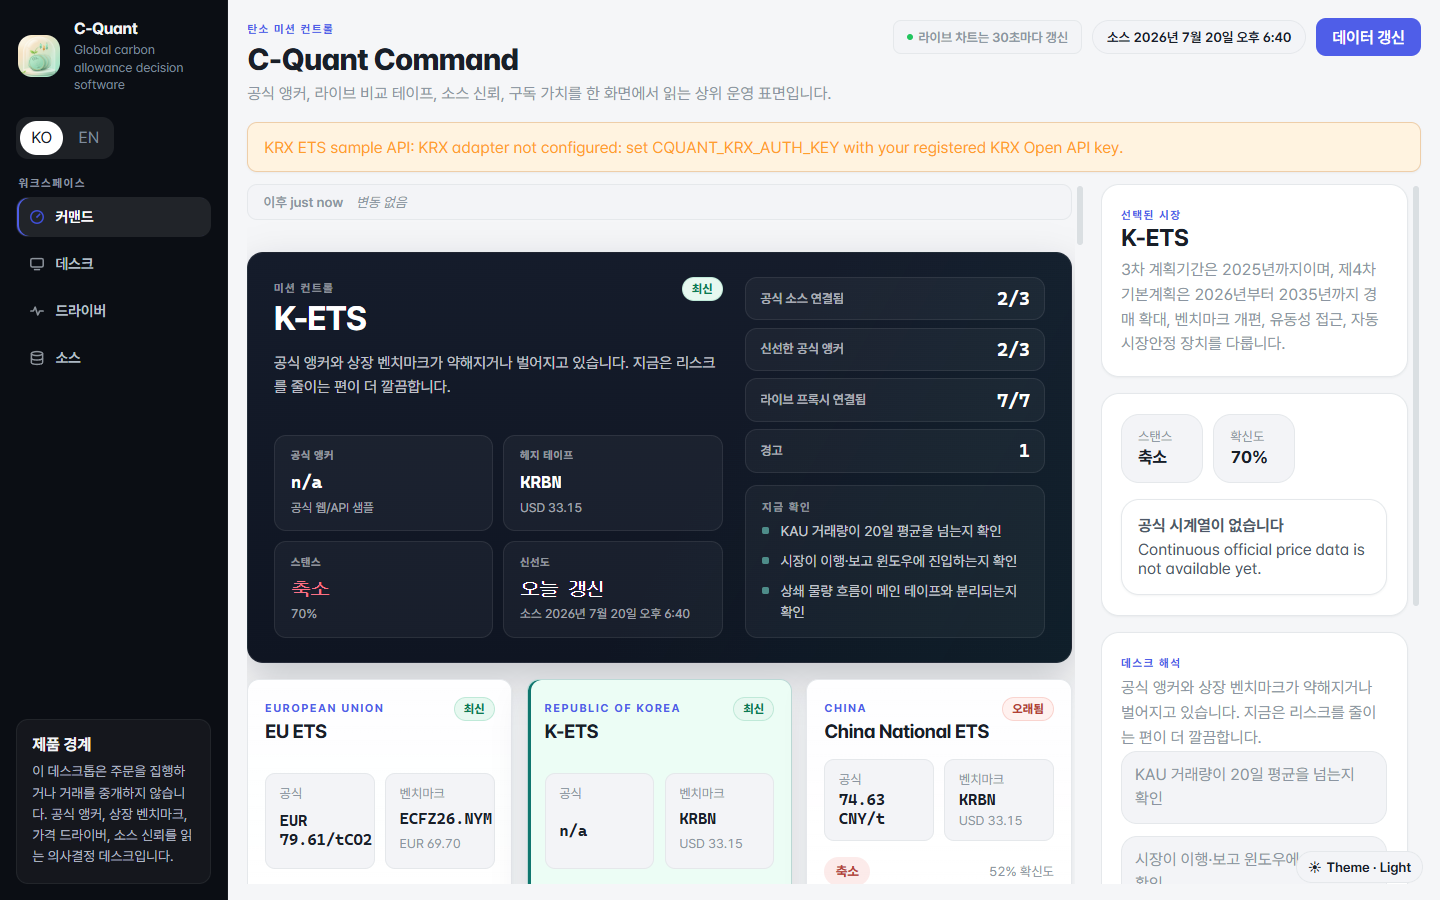
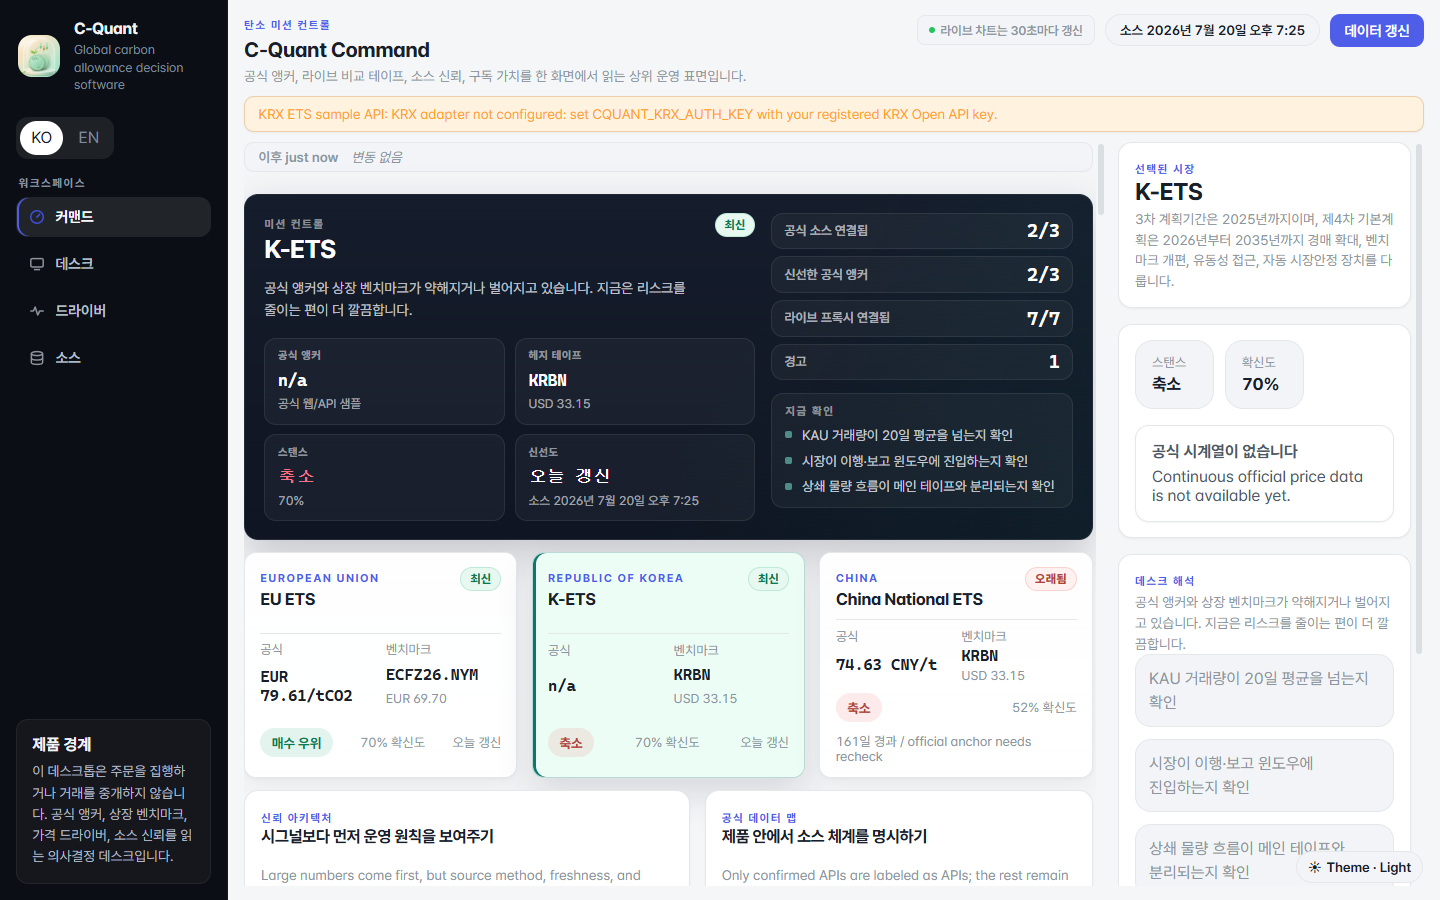
ui: density pass — collapse vertical slack, flatten box-in-box cards
The screens read as sparse AI-template output: oversized page header,
1.2rem padding everywhere, 1rem gaps between everything, and metric
tiles boxed inside cards inside columns. This pass tightens the whole
vertical rhythm:

- Page header toward a toolbar: h1 1.9 -> 1.3rem, subtitle 0.86rem,
  head padding-bottom 1 -> 0.6rem; meta chips and buttons one size
  down.
- Panels 1.2 -> ~1rem padding, radius-xl -> radius-lg; workspace grid
  and scroll gaps 1 -> 0.75rem; section headers 1.18 -> 1.02rem with
  0.7rem margin.
- Hero: padding 1.5 -> 1.1rem, title 2.1 -> 1.6rem, stat/health/verify
  paddings cut ~30%.
- Market cards drop the box-in-box metric tiles for flat label/value
  rows under a hairline divider.
- Status banner and session-delta strip compacted.

At 1440x900 the Command fold now shows the full hero, all three market
cards, and the next section headers. Verified: type-check, lint,
format, 222+55 tests, build, bundle (CSS 51.5/80KB), e2e, and fresh
light/dark/KO captures reviewed.

diff --git a/src/styles.css b/src/styles.css
@@ -387,7 +387,7 @@ textarea::placeholder {
   flex-direction: column;
   min-width: 0;
   min-height: 0;
-  padding: 1.1rem 1.2rem 1rem;
+  padding: 0.85rem 1rem;
   overflow: hidden;
 }
 
@@ -396,7 +396,7 @@ textarea::placeholder {
   align-items: flex-start;
   justify-content: space-between;
   gap: 1rem;
-  padding-bottom: 1rem;
+  padding-bottom: 0.6rem;
 }
 
 .workspace-head h1,
@@ -410,18 +410,19 @@ textarea::placeholder {
 }
 
 .workspace-head h1 {
-  font-size: 1.9rem;
-  line-height: 1.12;
-  letter-spacing: -0.03em;
-  font-weight: 750;
+  font-size: 1.3rem;
+  line-height: 1.2;
+  letter-spacing: -0.02em;
+  font-weight: 700;
 }
 
 .workspace-head p,
 .section-header p,
 .inspector-section p {
-  margin: 0.35rem 0 0;
+  margin: 0.2rem 0 0;
   color: var(--text-soft);
-  line-height: 1.55;
+  font-size: 0.86rem;
+  line-height: 1.5;
 }
 
 .eyebrow {
@@ -450,12 +451,12 @@ textarea::placeholder {
 }
 
 .live-chip {
-  min-height: 34px;
-  padding: 0.45rem 0.8rem;
+  min-height: 30px;
+  padding: 0.3rem 0.7rem;
   background: var(--panel-muted);
   color: var(--text-soft);
   border: 1px solid var(--line);
-  font-size: 0.82rem;
+  font-size: 0.78rem;
   font-weight: 600;
 }
 
@@ -472,8 +473,9 @@ textarea::placeholder {
   display: inline-flex;
   align-items: center;
   justify-content: center;
-  padding: 0.62rem 1rem;
+  padding: 0.5rem 0.9rem;
   border-radius: 10px;
+  font-size: 0.9rem;
   font-weight: 600;
   letter-spacing: -0.005em;
   transition:
@@ -580,12 +582,13 @@ textarea::placeholder {
 }
 
 .status-banner {
-  margin-bottom: 0.75rem;
-  padding: 0.9rem 1rem;
+  margin-bottom: 0.6rem;
+  padding: 0.55rem 0.85rem;
   border-radius: var(--radius-md);
   border: 1px solid var(--line);
   background: var(--panel-muted);
   box-shadow: var(--shadow-soft);
+  font-size: 0.86rem;
 }
 
 .status-banner.error {
@@ -602,8 +605,8 @@ textarea::placeholder {
 
 .workspace-grid {
   display: grid;
-  grid-template-columns: minmax(0, 1fr) minmax(292px, 320px);
-  gap: 1rem;
+  grid-template-columns: minmax(0, 1fr) minmax(280px, 306px);
+  gap: 0.75rem;
   min-height: 0;
   flex: 1;
   align-items: stretch;
@@ -621,7 +624,7 @@ textarea::placeholder {
 
 .workspace-scroll {
   display: grid;
-  gap: 1rem;
+  gap: 0.75rem;
   align-content: start;
 }
 
@@ -635,7 +638,7 @@ textarea::placeholder {
 .waterfall,
 .pressure-bar {
   border: 1px solid var(--line);
-  border-radius: var(--radius-xl);
+  border-radius: var(--radius-lg);
   background: var(--panel);
   box-shadow: var(--shadow-soft);
   transition:
@@ -645,7 +648,7 @@ textarea::placeholder {
 
 .panel,
 .inspector-section {
-  padding: 1.2rem;
+  padding: 0.95rem 1rem;
 }
 
 .section-header {
@@ -653,7 +656,7 @@ textarea::placeholder {
   justify-content: space-between;
   align-items: flex-start;
   gap: 1rem;
-  margin-bottom: 1rem;
+  margin-bottom: 0.7rem;
   flex-wrap: wrap;
 }
 
@@ -667,7 +670,7 @@ textarea::placeholder {
 }
 
 .section-header h2 {
-  font-size: 1.18rem;
+  font-size: 1.02rem;
   overflow-wrap: anywhere;
   word-break: keep-all;
 }
@@ -719,9 +722,9 @@ textarea::placeholder {
 .command-hero {
   display: grid;
   grid-template-columns: minmax(0, 1.55fr) minmax(300px, 0.95fr);
-  gap: 1.4rem;
-  padding: 1.5rem 1.6rem;
-  border-radius: 16px;
+  gap: 1rem;
+  padding: 1.1rem 1.2rem;
+  border-radius: 14px;
   border: 1px solid rgba(255, 255, 255, 0.07);
   background:
     linear-gradient(
@@ -775,10 +778,10 @@ textarea::placeholder {
 }
 
 .command-hero h2 {
-  margin: 0.3rem 0 0;
-  font-size: 2.1rem;
-  line-height: 1.02;
-  letter-spacing: -0.04em;
+  margin: 0.25rem 0 0;
+  font-size: 1.6rem;
+  line-height: 1.05;
+  letter-spacing: -0.03em;
   color: #ffffff;
 }
 
@@ -790,8 +793,8 @@ textarea::placeholder {
   margin: 0;
   max-width: 52ch;
   color: rgba(244, 247, 252, 0.76);
-  font-size: 0.95rem;
-  line-height: 1.6;
+  font-size: 0.88rem;
+  line-height: 1.55;
 }
 
 .command-hero-metrics,
@@ -814,7 +817,7 @@ textarea::placeholder {
 .command-stat,
 .command-brief-card,
 .command-health-tile {
-  padding: 0.85rem 1rem;
+  padding: 0.65rem 0.8rem;
   border: 1px solid rgba(255, 255, 255, 0.08);
   background: rgba(255, 255, 255, 0.04);
 }
@@ -843,8 +846,8 @@ textarea::placeholder {
 
 .command-stat strong {
   display: block;
-  margin-top: 0.45rem;
-  font-size: 1.15rem;
+  margin-top: 0.35rem;
+  font-size: 1.05rem;
   line-height: 1.2;
   letter-spacing: -0.02em;
   font-variant-numeric: tabular-nums;
@@ -879,11 +882,15 @@ textarea::placeholder {
   line-height: 1.6;
 }
 
+.command-brief-card .plain-list {
+  gap: 0.4rem;
+}
+
 .command-brief-card .plain-list li {
   position: relative;
-  padding-left: 1.15rem;
-  font-size: 0.88rem;
-  line-height: 1.5;
+  padding-left: 1.05rem;
+  font-size: 0.84rem;
+  line-height: 1.45;
   color: rgba(244, 247, 252, 0.78);
 }
 
@@ -919,7 +926,7 @@ textarea::placeholder {
   align-items: center;
   justify-content: space-between;
   gap: 0.6rem;
-  padding: 0.7rem 0.9rem;
+  padding: 0.48rem 0.75rem;
 }
 
 .command-health-tile span {
@@ -944,9 +951,9 @@ textarea::placeholder {
 
 .command-market-card {
   display: grid;
-  gap: 1rem;
+  gap: 0.65rem;
   width: 100%;
-  padding: 1.05rem;
+  padding: 0.85rem 0.95rem;
   text-align: left;
   border: 1px solid var(--line);
   background:
@@ -981,10 +988,10 @@ textarea::placeholder {
 }
 
 .command-market-top h3 {
-  margin: 0.24rem 0 0;
+  margin: 0.2rem 0 0;
   color: var(--text-strong);
-  font-size: 1.2rem;
-  letter-spacing: -0.03em;
+  font-size: 1.05rem;
+  letter-spacing: -0.02em;
 }
 
 .command-market-metrics {
@@ -993,13 +1000,17 @@ textarea::placeholder {
   gap: 0.65rem;
 }
 
+.command-market-metrics {
+  border-top: 1px solid var(--line);
+  padding-top: 0.55rem;
+}
+
 .command-market-metrics div {
   display: grid;
-  gap: 0.22rem;
-  padding: 0.75rem 0.85rem;
-  border-radius: 10px;
-  border: 1px solid var(--line);
-  background: var(--panel-muted);
+  gap: 0.15rem;
+  padding: 0;
+  border: 0;
+  background: transparent;
 }
 
 .command-market-metrics strong,
@@ -1539,12 +1550,12 @@ textarea::placeholder {
 }
 
 .feed-pill {
-  min-height: 34px;
-  padding: 0.45rem 0.8rem;
+  min-height: 30px;
+  padding: 0.3rem 0.7rem;
   border: 1px solid var(--line);
   background: var(--panel-muted);
   color: var(--text-soft);
-  font-size: 0.82rem;
+  font-size: 0.78rem;
   font-weight: 600;
   font-variant-numeric: tabular-nums;
 }
@@ -2660,8 +2671,9 @@ textarea::placeholder {
   flex-wrap: wrap;
   align-items: center;
   gap: 0.55rem;
-  padding: 0.55rem 0.95rem;
-  margin-bottom: 1rem;
+  padding: 0.4rem 0.85rem;
+  margin-bottom: 0.6rem;
+  font-size: 0.84rem;
   border-radius: var(--radius-md);
   background: var(--panel-muted);
   border: 1px solid var(--line);

diff --git a/CHANGELOG.md b/CHANGELOG.md
@@ -4,6 +4,19 @@ All notable changes to C-Quant. We follow [Keep a Changelog](https://keepachange
 
 ## [Unreleased]
 
+### Changed — density pass on every surface
+
+- Cut the vertical slack that made screens feel empty: page header
+  collapsed toward a toolbar (title 1.9rem → 1.3rem, tighter
+  subtitle), panel padding 1.2rem → ~1rem, section/grid gaps 1rem →
+  0.75rem, hero/stat/health/verify paddings reduced ~30%, meta chips
+  and buttons one size down, status banners and the session-delta
+  strip compacted.
+- Market cards drop the box-in-box look: inner metric tiles are now
+  flat label/value rows under a hairline divider.
+- At 1440×900 the Command fold now shows the full hero, all three
+  market cards, and the next section headers.
+
 ### Removed — repository slimmed to what runs
 
 - Dropped 29 internal artifacts from the tree (all preserved in git
